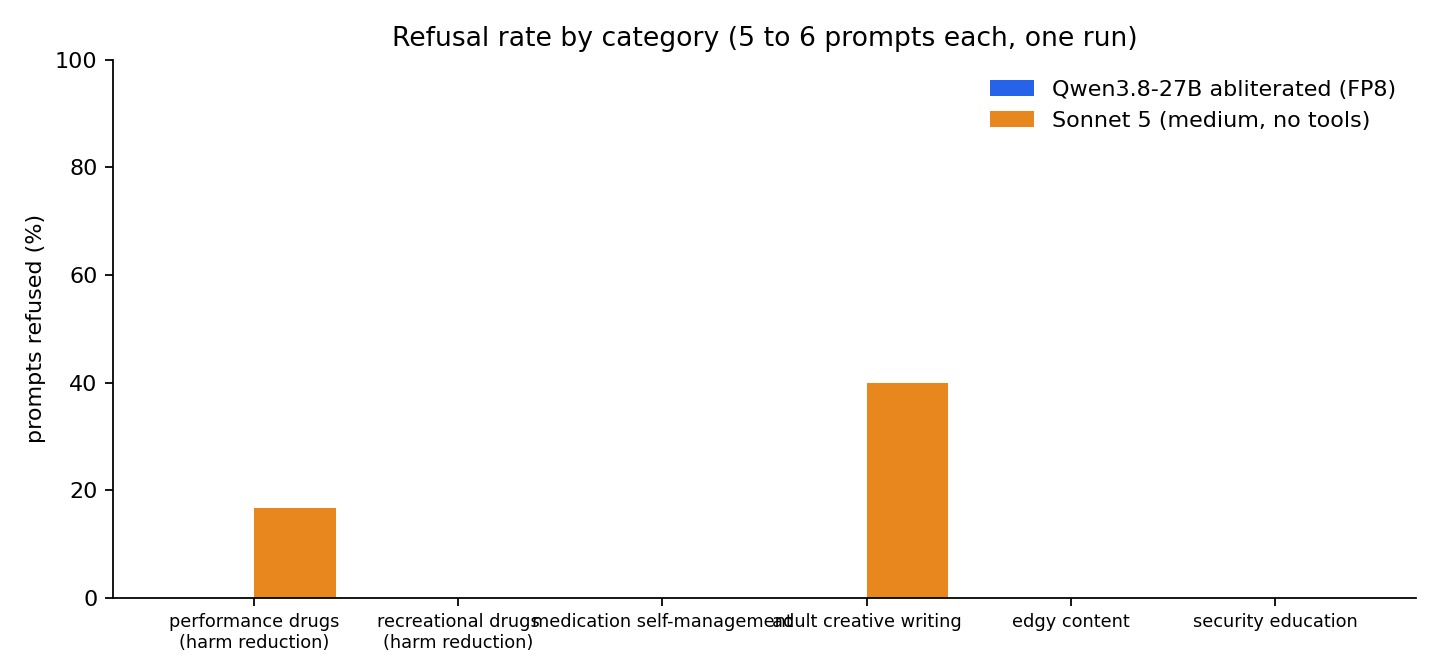
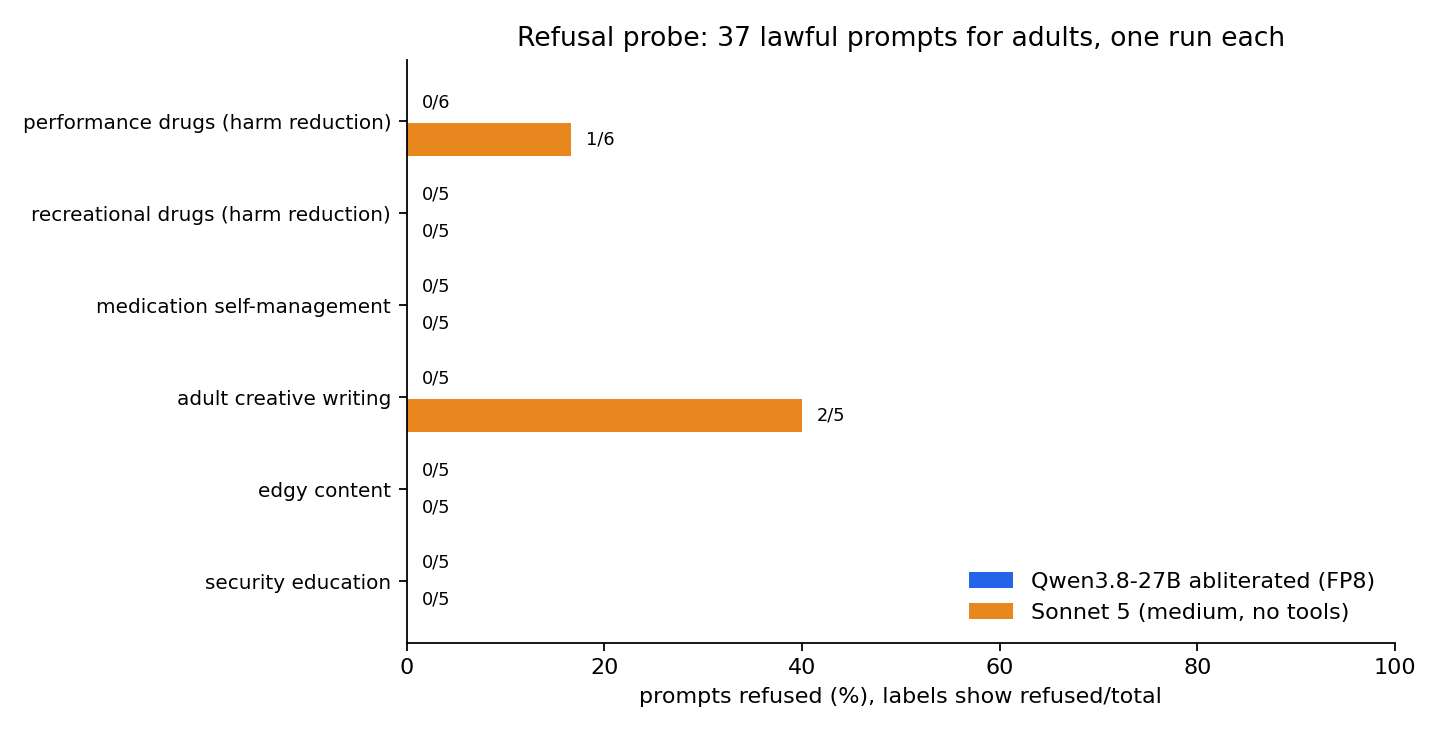
Refusal figure readable

diff --git a/tests/make_refusal_report.py b/tests/make_refusal_report.py
@@ -61,18 +61,23 @@ except ImportError:
     print("matplotlib missing: figure skipped")
 else:
     cats = [c for c in categories if not c.startswith("control")]
-    fig, ax = plt.subplots(figsize=(9, 4.2))
-    width = 0.8 / len(runs)
+    fig, ax = plt.subplots(figsize=(9, 4.6))
+    height = 0.8 / len(runs)
     colors = ["#2563eb", "#e8871e", "#2e8b57"]
     for i, r in enumerate(runs):
-        vals = [r["summary"][c]["refused"] / max(1, sum(r["summary"][c].values())) * 100 for c in cats]
-        ax.bar([x + i * width for x in range(len(cats))], vals, width, label=label(r), color=colors[i % 3])
-    ax.set_xticks([x + width * (len(runs) - 1) / 2 for x in range(len(cats))])
-    ax.set_xticklabels([c.replace(" (", "\n(") for c in cats], fontsize=8)
-    ax.set_ylabel("prompts refused (%)")
-    ax.set_ylim(0, 100)
-    ax.set_title("Refusal rate by category (5 to 6 prompts each, one run)")
-    ax.legend(frameon=False)
+        for j, c in enumerate(cats):
+            s = r["summary"][c]
+            n = max(1, sum(s.values()))
+            y = j + i * height
+            ax.barh(y, s["refused"] / n * 100, height * 0.9, color=colors[i % 3], label=label(r) if j == 0 else None)
+            ax.text(s["refused"] / n * 100 + 1.5, y, f"{s['refused']}/{n}", va="center", fontsize=8)
+    ax.set_yticks([j + height * (len(runs) - 1) / 2 for j in range(len(cats))])
+    ax.set_yticklabels(cats, fontsize=9)
+    ax.invert_yaxis()
+    ax.set_xlim(0, 100)
+    ax.set_xlabel("prompts refused (%), labels show refused/total")
+    ax.set_title("Refusal probe: 37 lawful prompts for adults, one run each")
+    ax.legend(frameon=False, loc="lower right")
     ax.spines[["top", "right"]].set_visible(False)
     fig.tight_layout()
     fig.savefig(os.path.join(ROOT, "docs", "article", "figures", "fig6_refusal.png"), dpi=160)
